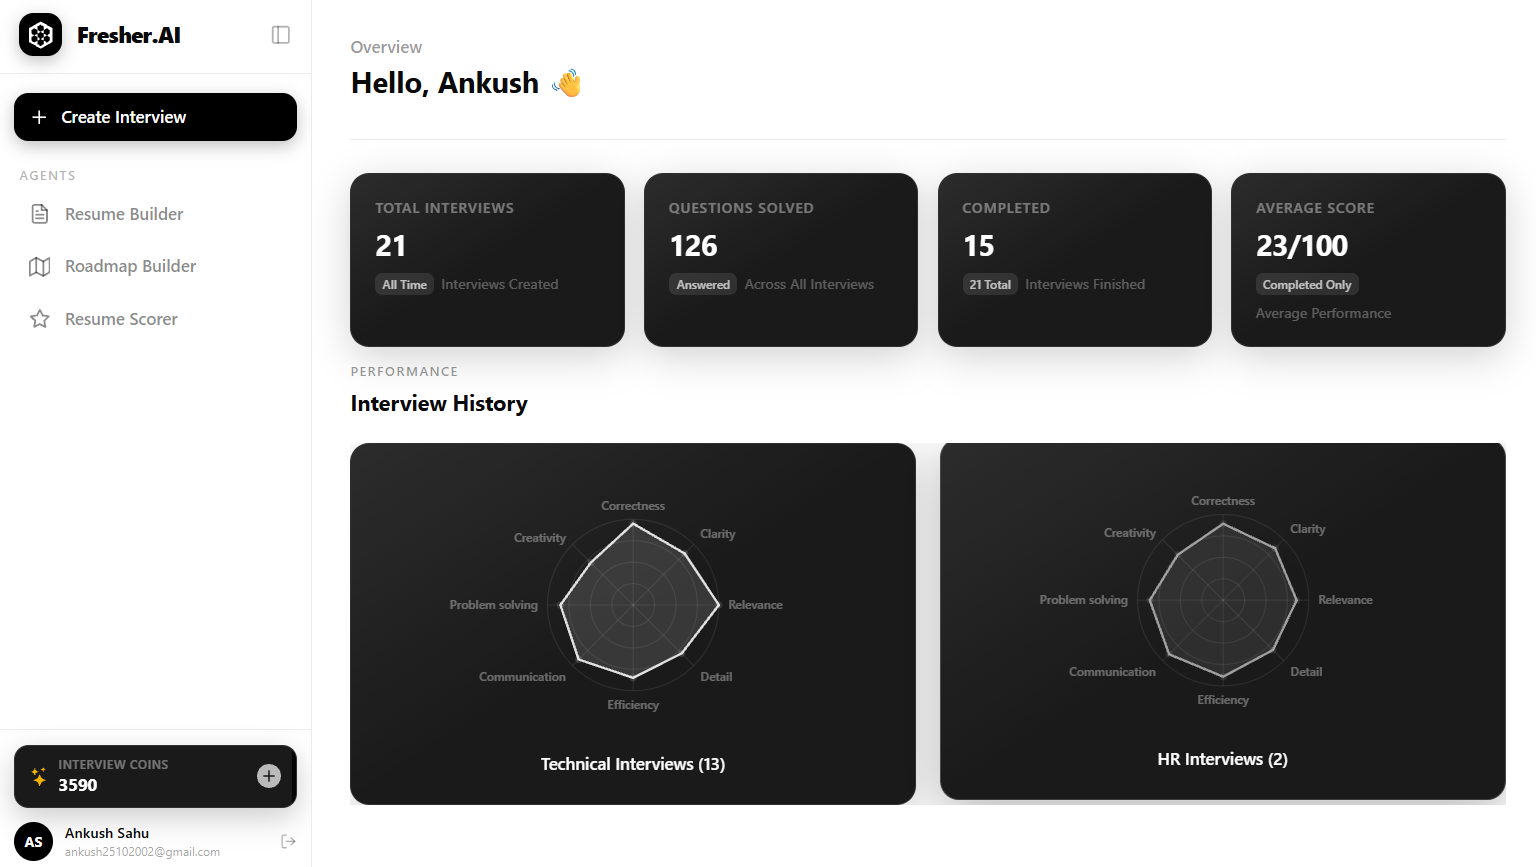
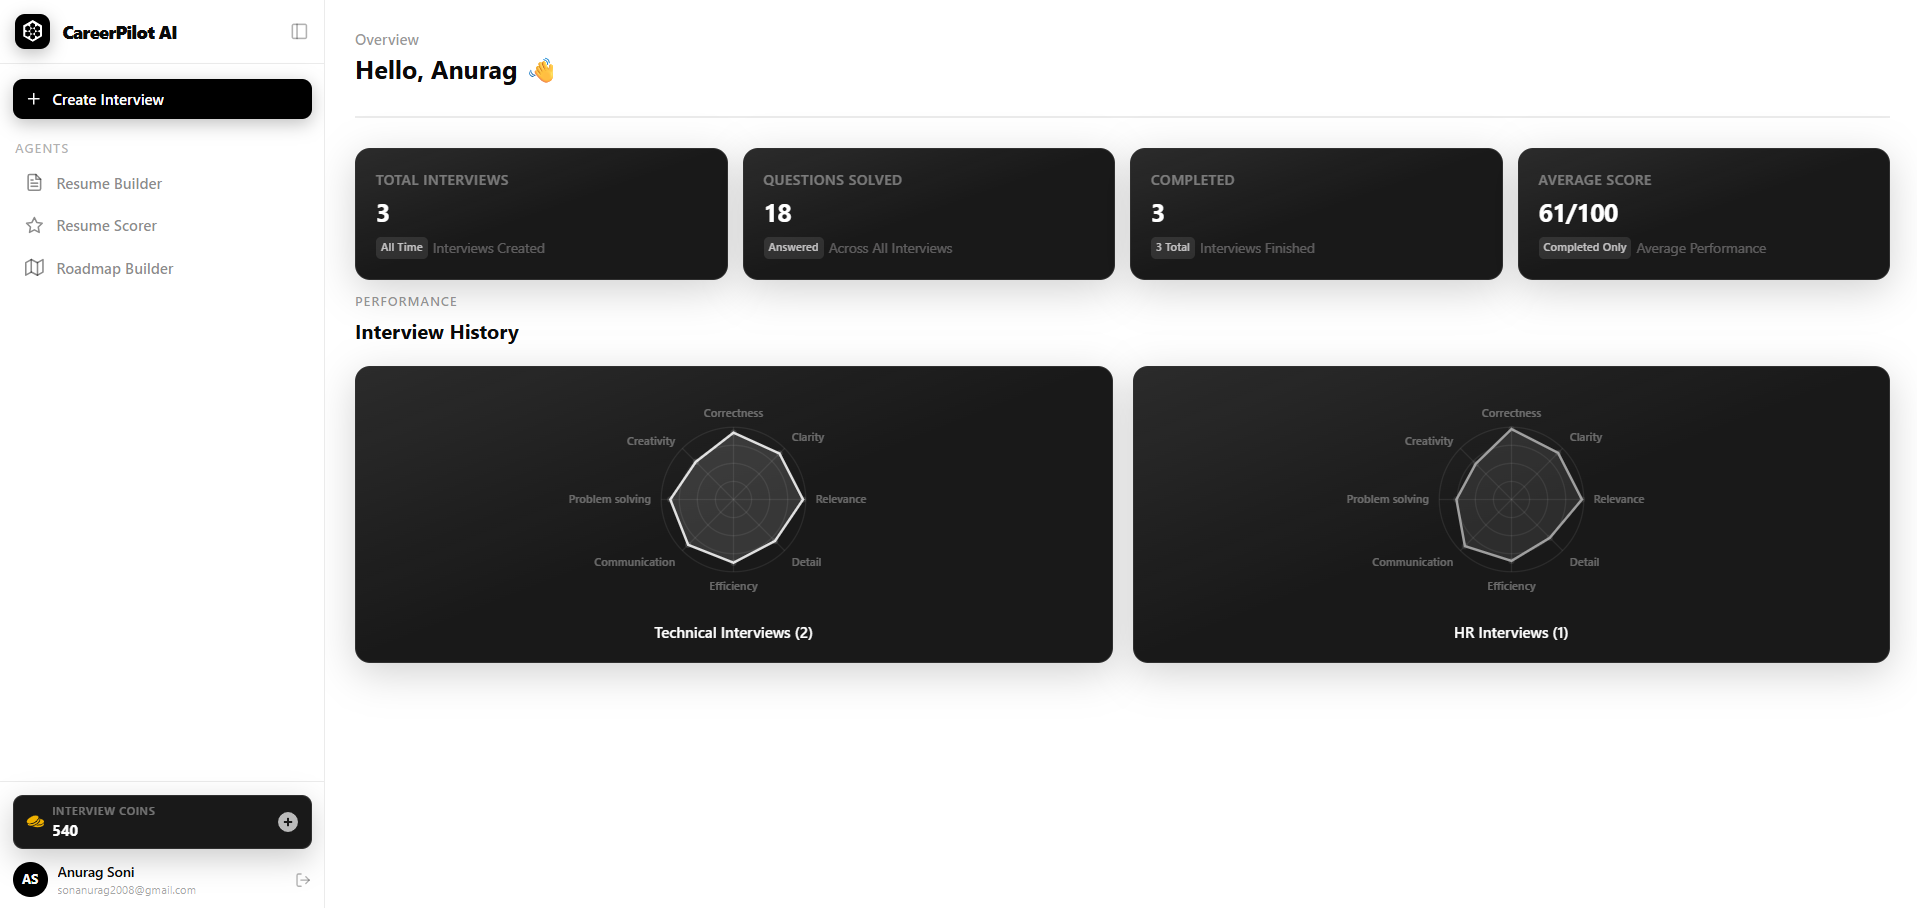
Rename project to CareerPilot AI

diff --git a/frontend/src/components/resume/ResumeForm.jsx b/frontend/src/components/resume/ResumeForm.jsx
@@ -51,17 +51,17 @@ function ResumeForm({step , data , setData}) {
   if(step === 1){
     return(
         <div className='flex flex-col gap-3'>
-            <Input label="Full Name" placeholder="Rahul Sharma" onChange={(v)=>setData({...data , name:v})} value={data.name}/>
+            <Input label="Full Name" placeholder="John Doe" onChange={(v)=>setData({...data , name:v})} value={data.name}/>
 
-            <Input label="Email" placeholder="rahul@email.com" onChange={(v) => setData({ ...data, email: v })} value={data.email}/>
+            <Input label="Email" placeholder="john@example.com" onChange={(v) => setData({ ...data, email: v })} value={data.email}/>
 
             <Input label="Phone"  placeholder="+91 9876543210"  onChange={(v) => setData({ ...data, phone: v })} value={data.phone}   />
 
-            <Input label="Location" placeholder="Jhansi, UP" onChange={(v) => setData({ ...data, location: v })} value={data.location} />
+            <Input label="Location" placeholder="Indore, MP" onChange={(v) => setData({ ...data, location: v })} value={data.location} />
 
-            <Input label="LinkedIn URL" placeholder="linkedin.com/in/rahul" onChange={(v) => setData({ ...data, linkedin: v })} value={data.linkedin} />
+            <Input label="LinkedIn URL" placeholder="linkedin.com/in/john" onChange={(v) => setData({ ...data, linkedin: v })} value={data.linkedin} />
 
-            <Input label="GitHub URL" placeholder="github.com/rahul" value={data.github}  onChange={(v) => setData({ ...data, github: v })}/>
+            <Input label="GitHub URL" placeholder="github.com/john" value={data.github}  onChange={(v) => setData({ ...data, github: v })}/>
 
         </div>
     )
@@ -138,7 +138,7 @@ function ResumeForm({step , data , setData}) {
 
                 <Input label="Role" placeholder="Backend Developer" onChange={(v)=>updateExp(index,"role",v)} value={exp.role}/>
 
-                <Input label="Duration" placeholder="Jan 2023 – Dec 2024" onChange={(v)=>updateExp(index,"duration",v)} value={exp.duration}/>
+                <Input label="Duration" placeholder="Jan 2024 – Dec 2026" onChange={(v)=>updateExp(index,"duration",v)} value={exp.duration}/>
 
                 <TextArea label="Description" placeholder={"• Built REST APIs\n• Improved performance by 40%"} onChange={(v)=>updateExp(index,"description",v)} value={exp.description}/>
 
@@ -189,7 +189,7 @@ function ResumeForm({step , data , setData}) {
 
                 <Input label="Tech Stack"   value={pro.techStack} onChange={(v) => updatePro(index, "techStack", v)} placeholder="React, Node.js, MongoDB" />
 
-                <Input label="GitHub Link"  value={pro.github}    onChange={(v) => updatePro(index, "github", v)}    placeholder="github.com/rahul/interviewiq" />
+                <Input label="GitHub Link"  value={pro.github}    onChange={(v) => updatePro(index, "github", v)}    placeholder="github.com/john/interviewiq" />
 
                 <TextArea label="Description" value={pro.description} onChange={(v) => updatePro(index, "description", v)} placeholder="AI-powered interview preparation platform with mock interviews and resume builder." />
 
@@ -236,15 +236,15 @@ function ResumeForm({step , data , setData}) {
            {data.education.map((edu,index)=>(
             <EntryCard key={index} onRemove={()=>removeEdu(index)}>
 
-                <Input label="College / University" value={edu.college} onChange={(v) => updateEdu(index, "college", v)} placeholder="SR Group of Institutions" />
+                <Input label="College / University" value={edu.college} onChange={(v) => updateEdu(index, "college", v)} placeholder="Jabalpur Engineering College" />
 
                 <Input label="Degree"  value={edu.degree} onChange={(v) => updateEdu(index, "degree", v)} placeholder="B.Tech" />
 
-                <Input label="Branch"  value={edu.branch} onChange={(v) => updateEdu(index, "branch", v)} placeholder="Computer Science" />
+                <Input label="Branch"  value={edu.branch} onChange={(v) => updateEdu(index, "branch", v)} placeholder="Computer Science and Engineering" />
                 
-                <Input label="CGPA"    value={edu.cgpa}   onChange={(v) => updateEdu(index, "cgpa", v)}   placeholder="8.5" />
+                <Input label="CGPA"    value={edu.cgpa}   onChange={(v) => updateEdu(index, "cgpa", v)}   placeholder="7.8" />
                 
-                <Input label="Year"    value={edu.year}   onChange={(v) => updateEdu(index, "year", v)}   placeholder="2021 – 2025" />
+                <Input label="Year"    value={edu.year}   onChange={(v) => updateEdu(index, "year", v)}   placeholder="2022 – 2026" />
 
             </EntryCard>
            ))}

diff --git a/frontend/src/pages/Home.jsx b/frontend/src/pages/Home.jsx
@@ -24,7 +24,7 @@ function Home({ setUser }) {
                     <div className='w-7 h-7 rounded-lg bg-[#0A0A0A] flex items-center justify-center shadow-[0_4px_14px_rgba(0,0,0,0.18)]'>
                         <GiArtificialHive size={15} color='white' /></div>
 
-                    <span className='font-extrabold text-base tracking-tight text-[#0A0A0A]'>FresherAI</span>
+                    <span className='font-extrabold text-base tracking-tight text-[#0A0A0A]'>CareerPilot AI</span>
                 </div>
 
                 <motion.button
@@ -69,7 +69,7 @@ function Home({ setUser }) {
                         animate={{ opacity: 1, y: 0 }}
                         transition={{ duration: 0.55, delay: 0.2 }}
                         className='text-black/45 text-sm leading-relaxed max-w-md mx-auto mb-6 [text-shadow:0_2px_10px_rgba(0,0,0,0.06)]'>
-                        Fresher.AI is an innovative AI-powered interview preparation platform
+                        CareerPilot AI is an innovative AI-powered interview preparation platform
                         designed to help job seekers excel in their interviews.
                     </motion.p>
 
@@ -118,7 +118,7 @@ function Home({ setUser }) {
                         </h2>
 
                         <p className='text-black/40 text-sm max-w-2xl mx-auto mt-4 leading-relaxed'>
-                            Fresher.AI combines multiple AI agents that work together
+                            CareerPilot AI combines multiple AI agents that work together
                             to help you build your resume, practice interviews,
                             receive detailed feedback, and follow a personalized roadmap
                             to land your dream job.
@@ -183,10 +183,10 @@ function Home({ setUser }) {
                         <GiArtificialHive size={11} color='white'/>
 
                     </div>
-                    <span className='font-bold text-xs text-[#0A0A0A]/70'>FresherAI</span>
+                    <span className='font-bold text-xs text-[#0A0A0A]/70'>CareerPilot AI</span>
                 </div>
                 <div className='text-black/50 text-xs'>
-                © {new Date().getFullYear()} Fresher.AI · All rights reserved
+                © {new Date().getFullYear()} CareerPilot AI · All rights reserved
                 </div>
 
                 </footer>

diff --git a/frontend/src/pages/Billing.jsx b/frontend/src/pages/Billing.jsx
@@ -51,7 +51,7 @@ function Billing({ user, setUser }) {
                 key: import.meta.env.VITE_RAZORPAY_KEY_ID,
                 amount: result.data.order.amount,
                 currency: result.data.order.currency,
-                name: "FresherAI",
+                name: "CareerPilotAI",
                 description: `${plan.title} - ${plan.coins} Interview Coins`,
                 order_id: result.data.order.id,
 
@@ -105,7 +105,7 @@ function Billing({ user, setUser }) {
                 <div className='mx-auto flex h-12 max-w-7xl items-center justify-between px-3 sm:px-5'>
                     <div onClick={() => navigate("/dashboard")}
                         className='flex cursor-pointer items-center gap-1.5'>
-                        <span className='text-sm font-extrabold sm:text-base text-[#0A0A0A]'>FresherAI</span>
+                        <span className='text-sm font-extrabold sm:text-base text-[#0A0A0A]'>CareerPilot AI</span>
                         <span className='hidden rounded bg-black/5 px-1.5 py-0.5 text-[10px] text-black/50 sm:block'>Interview Coins</span>
                     </div>
 

diff --git a/frontend/src/pages/Roadmap.jsx b/frontend/src/pages/Roadmap.jsx
@@ -101,7 +101,7 @@ getAllRoadmaps()
                 <div className='mx-auto flex h-12 max-w-7xl items-center justify-between px-3 sm:px-5'>
                     <div onClick={() => navigate("/dashboard")}
                         className='flex cursor-pointer items-center gap-1.5'>
-                        <span className='text-sm font-extrabold sm:text-base text-[#0A0A0A]'>FresherAI</span>
+                        <span className='text-sm font-extrabold sm:text-base text-[#0A0A0A]'>CareerPilot AI</span>
                         <span className='hidden rounded bg-black/5 px-1.5 py-0.5 text-[10px] text-black/50 sm:block'>Roadmap Builder</span>
                     </div>
 

diff --git a/frontend/src/pages/ResumeBuilder.jsx b/frontend/src/pages/ResumeBuilder.jsx
@@ -51,7 +51,7 @@ function ResumeBuilder({user , setUser}) {
             <div className='mx-auto flex h-12 max-w-7xl items-center justify-between px-3 sm:px-5'>
                 <div onClick={()=>navigate("/dashboard")}
                  className='flex cursor-pointer items-center gap-1.5'>
-                    <span className='text-sm font-extrabold sm:text-base text-[#0A0A0A]'>FresherAI</span>
+                    <span className='text-sm font-extrabold sm:text-base text-[#0A0A0A]'>CareerPilot AI</span>
                     <span className='hidden rounded bg-black/5 px-1.5 py-0.5 text-[10px] text-black/50 sm:block'>Resume Builder</span>
                 </div>
 

diff --git a/frontend/src/pages/Scorer.jsx b/frontend/src/pages/Scorer.jsx
@@ -64,7 +64,7 @@ const Navbar = ({ label }) => {
             <div className='mx-auto flex h-12 max-w-7xl items-center justify-start px-3 sm:px-5'>
                 <div onClick={() => navigate("/dashboard")}
                     className='flex cursor-pointer items-center gap-1.5'>
-                    <span className='text-sm font-extrabold sm:text-base text-[#0A0A0A]'>FresherAI</span>
+                    <span className='text-sm font-extrabold sm:text-base text-[#0A0A0A]'>CareerPilot AI</span>
                     <span className='hidden rounded bg-black/5 px-1.5 py-0.5 text-[10px] text-black/50 sm:block'>{label}</span>
                 </div>
 

diff --git a/frontend/src/components/LoginModel.jsx b/frontend/src/components/LoginModel.jsx
@@ -42,7 +42,7 @@ function LoginModel({ onClose ,setUser}) {
 
                     <h2 className='text-lg font-bold text-center mb-2 text-white'>
                         Sign In to {" "}
-                        <span className='font-extrabold text-lg tracking-tight text-white'>FresherAI</span>
+                        <span className='font-extrabold text-lg tracking-tight text-white'>CareerPilot AI</span>
                     </h2>
                     <p className='text-white/45 text-center text-xs'>
                         Continue your AI interview journey

diff --git a/frontend/src/components/Sidebar.jsx b/frontend/src/components/Sidebar.jsx
@@ -49,7 +49,7 @@ function Sidebar({
                             initial={{ opacity: 0, x: -6 }}
                             animate={{ opacity: 1, x: 0 }}
                             transition={{ duration: 0.15 }}
-                            className='font-extrabold text-sm tracking-tight text-[#0A0A0A] whitespace-nowrap'>FresherAI</motion.span>
+                            className='font-extrabold text-sm tracking-tight text-[#0A0A0A] whitespace-nowrap'>CareerPilot AI</motion.span>
 
                     </div>
                 )}

diff --git a/frontend/index.html b/frontend/index.html
@@ -4,7 +4,7 @@
     <meta charset="UTF-8" />
     <link rel="icon" type="image/svg+xml" href="/logo.png" />
     <meta name="viewport" content="width=device-width, initial-scale=1.0" />
-    <title>FresherAI</title>
+    <title>CareerPilot AI</title>
   </head>
   <body>
     <div id="root"></div>

diff --git a/frontend/src/components/resume/DownloadBtn.jsx b/frontend/src/components/resume/DownloadBtn.jsx
@@ -6,7 +6,7 @@ function DownloadBtn({ docRef, user, setUser }) {
 
     const handlePdf = useReactToPrint({
         contentRef: docRef,
-        documentTitle: "FresherAIPDF"
+        documentTitle: "CareerPilotAIPDF"
     })
 
     const handleDownload = async () => {
